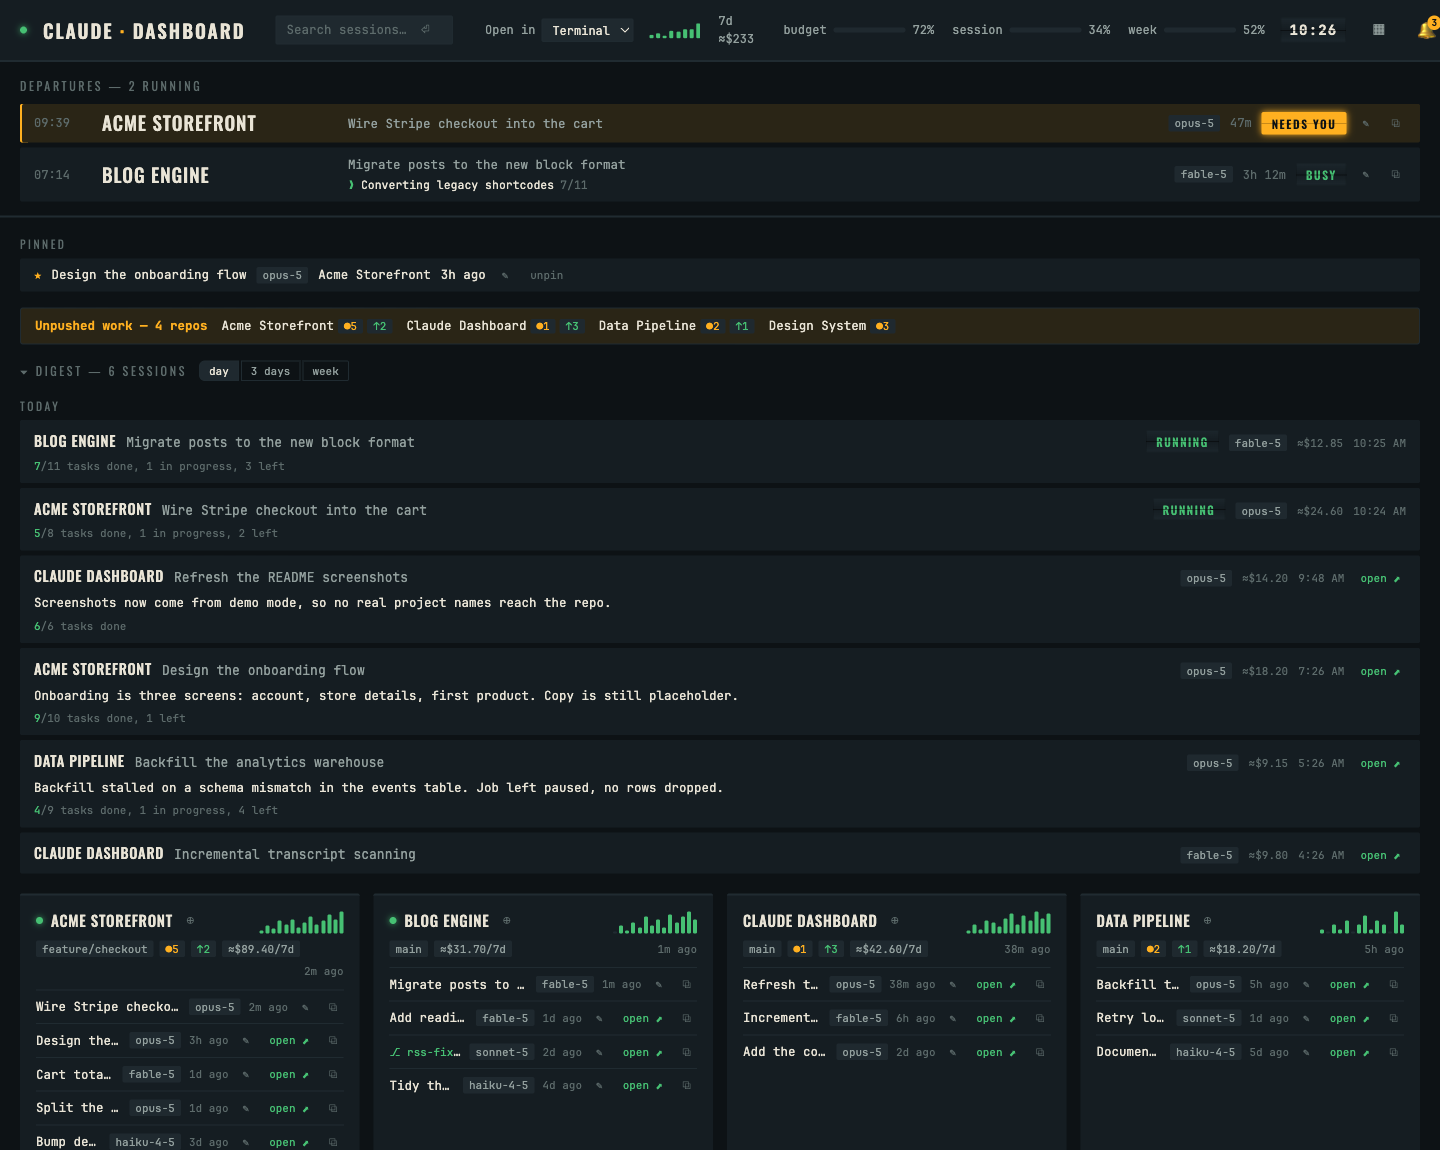
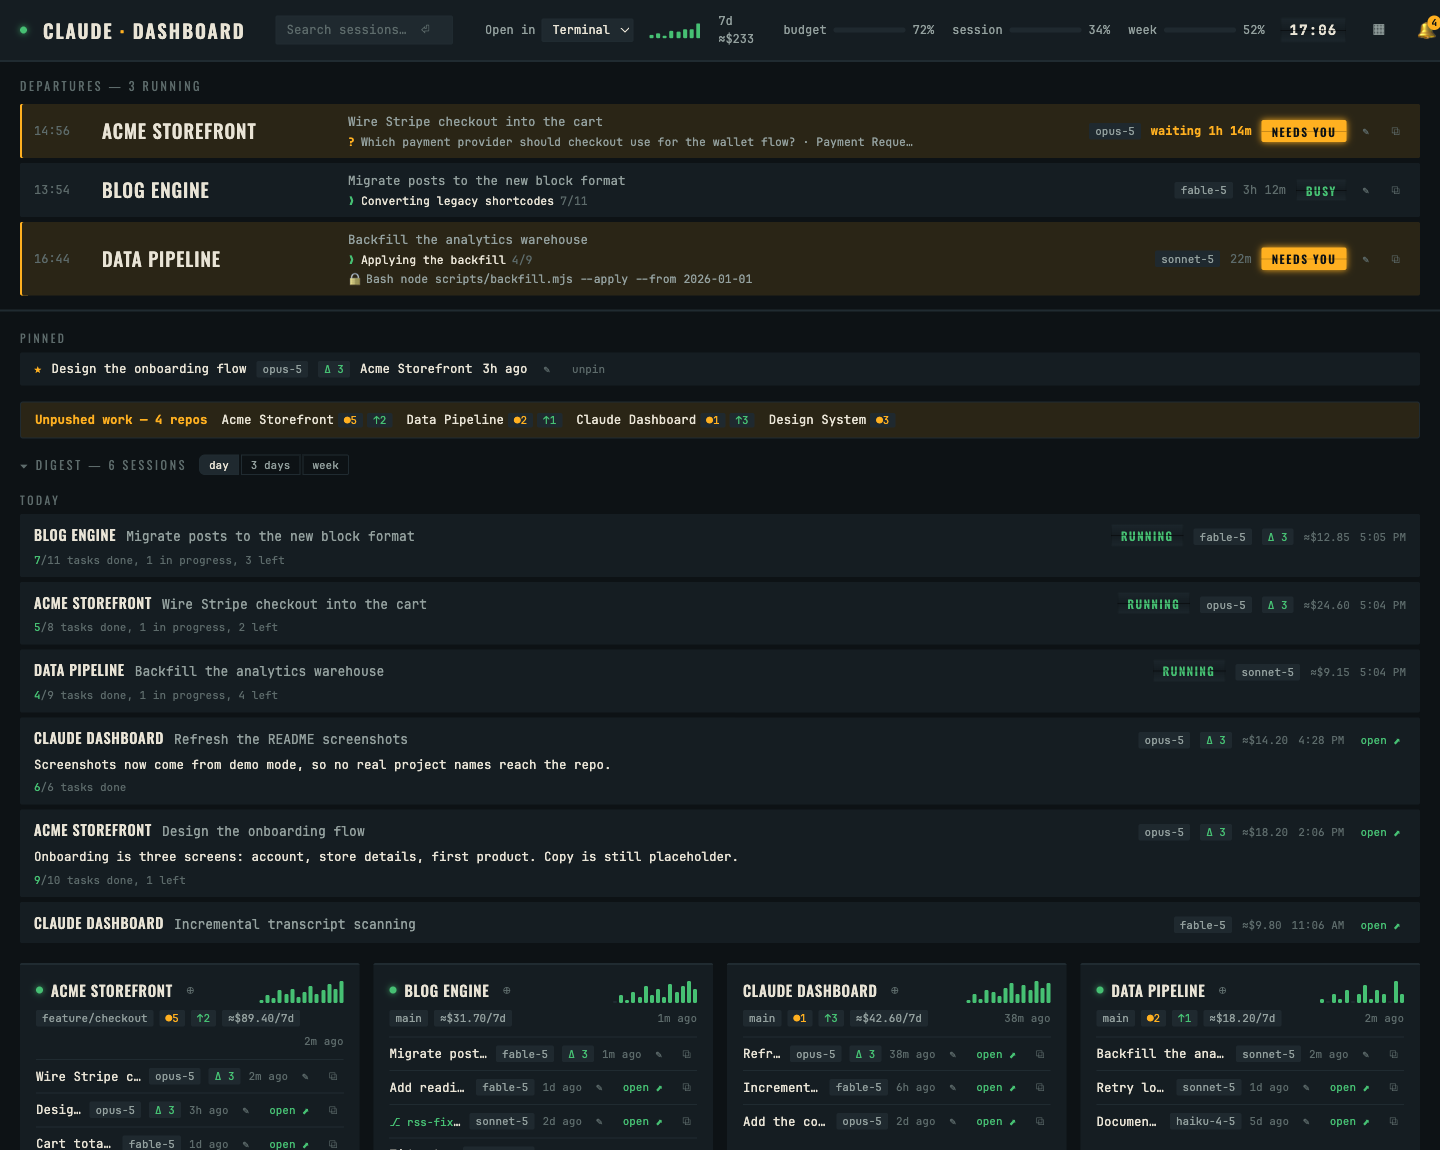
README: plain-English intro and 1.10.0 screenshots; fix clipped agent list in Mission Control

diff --git a/public/index.html b/public/index.html
@@ -612,7 +612,7 @@
   .mc-pane-body { flex: 1; overflow-y: auto; padding: 6px 12px 10px; font-size: 12px; }
   .mc-pane-body .t-turn { margin-top: 8px; }
 
-  .mc-agents .agents { max-height: 35%; overflow-y: auto; }
+  .mc-agents .agents { max-height: 160px; overflow-y: auto; }
   .agents { padding: 4px 12px 6px; border-bottom: 1px solid var(--line); font-size: 11.5px; flex: none; }
   .agents .team { color: var(--faint); text-transform: uppercase; letter-spacing: 0.08em; font-size: 10.5px; margin-bottom: 2px; }
   .agents .agent { display: flex; align-items: center; gap: 7px; line-height: 1.6; }

diff --git a/README.md b/README.md
@@ -1,14 +1,41 @@
 # Claude Dashboard
 
-A local, zero-dependency dashboard for all your [Claude Code](https://claude.com/claude-code) projects. Live sessions pinned at the top — including whether one is waiting on your input — with a card per project below: recent sessions, git status, a 14-day activity sparkline, and one-click resume commands.
+One web page that shows you everything Claude Code is doing on your machine.
 
-Everything is read from local files under `~/.claude`, and it never writes to Claude's data — read-only. No API keys to configure. The only automatic network call is to Anthropic's own usage API for your quota meters, authenticated with the Keychain credentials Claude Code already holds (kept in memory, toggleable in settings). Plain Node.js (which Claude Code already requires), zero npm dependencies. macOS first, Linux supported, Windows experimental.
+Claude Code runs in a terminal. Once you have two or three sessions going, you lose track. Which one is waiting for an answer? What did that session change while you were away? How much has this week cost? Claude Dashboard answers those questions on one screen, updated live, from the files Claude Code already writes to `~/.claude`.
 
-**Requirements:** macOS or Linux (or Windows, experimental — see below), Node.js ≥ 18, Claude Code.
+**What you get**
 
-![Claude Dashboard, dark mode — live sessions, the pinned strip, unpushed work, and today's digest](docs/screenshots/dashboard-dark.png)
+- A departures board of every running session. When Claude stops to ask you something, the row turns amber and shows the question, so you go straight to the right terminal.
+- A diff of every file Claude edited or created in a session, taken from the backups Claude Code keeps. Read what changed before you commit it.
+- The full transcript of any session, past or present, and a search across every prompt you have ever sent.
+- Cost per project, per model, and per week, estimated from the tokens in your transcripts.
+- A macOS notification the moment a session needs you, and a reminder if you leave it waiting.
 
-*Every screenshot here is demo data (`CLAUDE_DASH_DEMO=1`) — the projects are invented.*
+**Why you would want it**
+
+- You stop checking terminals. The board and the notifications tell you when to look.
+- You stop losing sessions. Every session has a resume button that reopens it in the right folder.
+- You see where the time and the money go, per project.
+- It is read-only. It never writes to Claude's files. Nothing leaves your Mac except one optional call to Anthropic's usage API for your quota meters, using the sign-in Claude Code already has.
+- Nothing to configure. No API keys. Plain Node.js, zero npm dependencies, bound to `127.0.0.1` only.
+
+**Who it is for:** anyone who runs Claude Code in more than one terminal.
+
+**Requirements:** macOS or Linux (Windows experimental, see below), Node.js ≥ 18, Claude Code.
+
+![Claude Dashboard, dark mode: three live sessions, two of them waiting with the question shown, plus the pinned strip, unpushed work, and today's digest](docs/screenshots/dashboard-dark.png)
+
+*Every screenshot here is demo data (`CLAUDE_DASH_DEMO=1`). The projects are invented.*
+
+**New in 1.10.0**
+
+- The board says what a waiting session needs: the question, the command awaiting permission, or Claude's last line.
+- `Δ n` on every session row, and a changes panel with a diff of every file the session touched.
+- Notes on any session, searchable.
+- A Plugins & MCP inventory: what is installed, enabled, stale, disabled, or needing auth.
+- Agent teams and subagents shown live in Mission Control.
+- An idle reminder when a session has waited on you for an hour.
 
 ## Try it in one command
 
@@ -83,9 +110,9 @@ If something looks off, the log is at `~/Library/Logs/claude-dashboard.log`. To 
 - **Project cards** — sorted by last activity. Branch chip, `●n` uncommitted changes, `↑n` unpushed commits. The sparkline is prompts per day for the last two weeks. Each session row has an `open ⬈` button that resumes the session in your terminal (new window, right directory) or imports it into the Claude desktop app when it's installed — the **Open in** selector in the header names whichever terminal you've configured (auto-detected on first run). The `⧉` button copies the `claude --resume` command instead.
 - **Header meters** — your plan and rate-limit tier (Free/Pro/Max/Enterprise/API, detected from Claude Code's local account cache), live session and weekly usage from Anthropic's usage API via your existing Claude Code sign-in, plus extra-usage spend. Set a **weekly budget** in settings and a third meter tracks estimated spend against it, with one alert each at 75 / 90 / 100%. First run may show one macOS Keychain prompt — click Always Allow.
 
-![Mission Control — every live session tiled side by side, each pane following its own transcript](docs/screenshots/mission-control.png)
+![Mission Control: every live session tiled side by side, each pane following its own transcript, with the waiting reason at the top of each pane and the agent team under the middle one](docs/screenshots/mission-control.png)
 
-![Transcript viewer live-following a running session — prompts, replies as markdown, tool calls as one-liners](docs/screenshots/transcript.png)
+![Transcript viewer live-following a running session: the agent team at the top, then prompts, replies as markdown, and tool calls as one-liners](docs/screenshots/transcript.png)
 
 - **Transcripts** — click any session title (cards, digest, search results, project drawer) to read the conversation: your prompts, Claude's replies rendered as markdown, tool calls as compact one-liners, and away-summaries highlighted. Long sessions show the newest ~1200 events. **Running sessions follow live** — a `● live` badge appears, new turns stream in every few seconds, and the view sticks to the bottom unless you've scrolled up to read.
 - **Search** — the header box searches every prompt you've ever sent plus all session titles (Enter to run, 2+ characters). Narrow with `project:name` or `since:7d` / `since:2026-08-01`. Clicking a prompt result opens the transcript scrolled to the matching turn. If the answer isn't in a prompt, **search inside full transcripts** runs the same query across the conversation bodies — slower, so it's a second click rather than the default.
@@ -96,6 +123,9 @@ If something looks off, the log is at `~/Library/Logs/claude-dashboard.log`. To 
 - **Catch-up** — the `🔔` in the header keeps every notification the server has fired since it started, with an unread count. Useful after a morning away from the desk.
 - **Export** — any transcript downloads as clean markdown via the `export ⇩` button.
 - **Changes** — a `Δ n` chip on any session row counts the files Claude edited. Click it (or `changes` in the transcript header) for the list with `+added −removed` per file and a unified diff of what the session changed, from the pre-edit backup Claude Code keeps to the file as it is on disk now. Files with several checkpoints also offer each step (`v1 → v2`). Read-only: nothing here reverts anything.
+
+![The changes panel: three files the session touched, the first expanded to a unified diff from the pre-edit backup to disk](docs/screenshots/changes.png)
+
 - **Notes** — `note` in the transcript header attaches a free-text note to a session (⌘⏎ saves, empty removes). Rows with a note show `≡`, hover to read it, and notes are searchable from the header box. Stored in `config.json` under `sessionNotes`.
 - **New session** — the `⊕` button on a project card opens a fresh terminal window in that project running `claude`.
 - **Cost trend** — the small bar chart in the header is estimated cost per week for the last 8 weeks (hover for numbers). Costs include subagent tokens.
@@ -106,6 +136,9 @@ If something looks off, the log is at `~/Library/Logs/claude-dashboard.log`. To 
 
 - **Project details** — click any project's name for a slide-over with its full session list, recent git commits, rendered CLAUDE.md, per-project memory files, skills/agents/commands from `.claude/`, and settings (permissions, MCP servers, allowed tools). Read-only; also a quick audit of which projects are missing instructions or memory. Esc closes.
 - **Plugins & MCP** — `⌘K` → Plugins & MCP (or the button in settings) lists every installed plugin with its marketplace, version, on/off state and a `stale` flag when its marketplace was refreshed after the plugin was last updated, plus every MCP server with its scope, the projects that use it, an `off` chip for servers you have disabled in a project, and an amber `needs auth` when Claude Code says so. Read-only; server secrets never reach the browser.
+
+![Plugins & MCP inventory: plugins with on, off, stale and missing states; MCP servers with scope, projects, disabled flags and needs-auth](docs/screenshots/inventory.png)
+
 - **Unpushed work strip** — an amber band listing every repo with uncommitted changes (`●n`) or unpushed commits (`↑n`), sorted by recent activity. Disappears when everything's clean.
 - **Dormant** — projects with no activity for 60+ days, tucked away at the bottom.
 - Worktree sessions (`.claude/worktrees/…`) are folded into their parent project and badged `⎇`.
